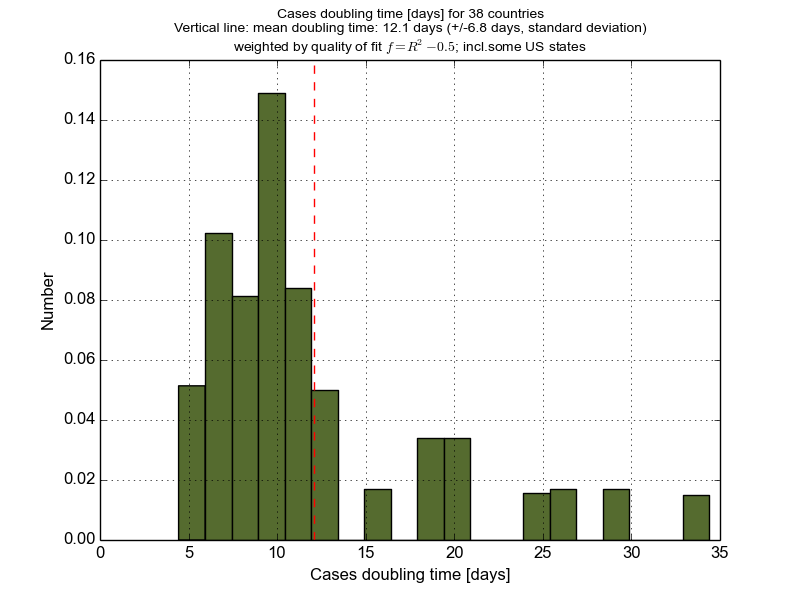
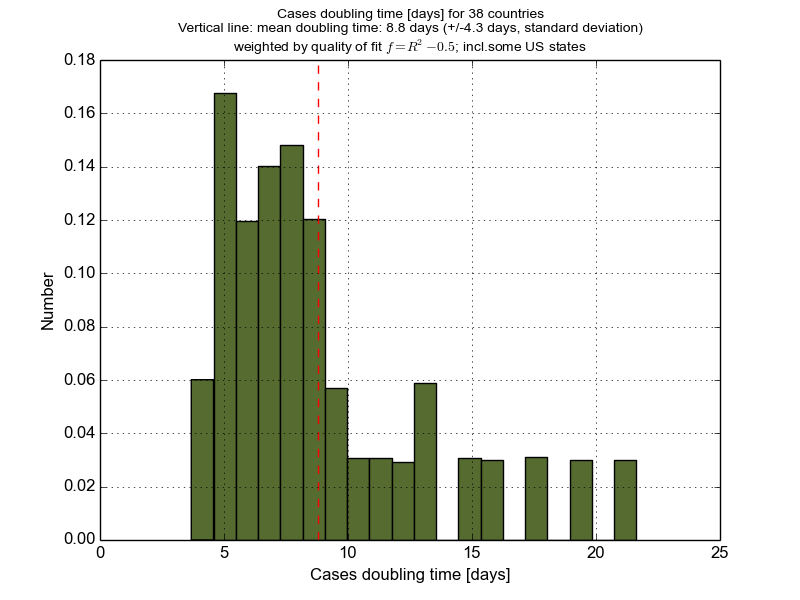
added japan

diff --git a/cov_model/statsanalysis/country_parameters.py b/cov_model/statsanalysis/country_parameters.py
@@ -19,6 +19,7 @@ COUNTRY_PARAMS = \
      "Ireland": ["IRL", 4818.],
      "Italy": ["ITA", 60627.],
      "Israel": ["ISR", 8381.],
+     "Japan": ["JPN", 127000.],
      "Mexico": ["MEX", 126190.],
      "Moldova": ["MDA", 4051.],
      "Netherlands": ["NLD", 17059.],
